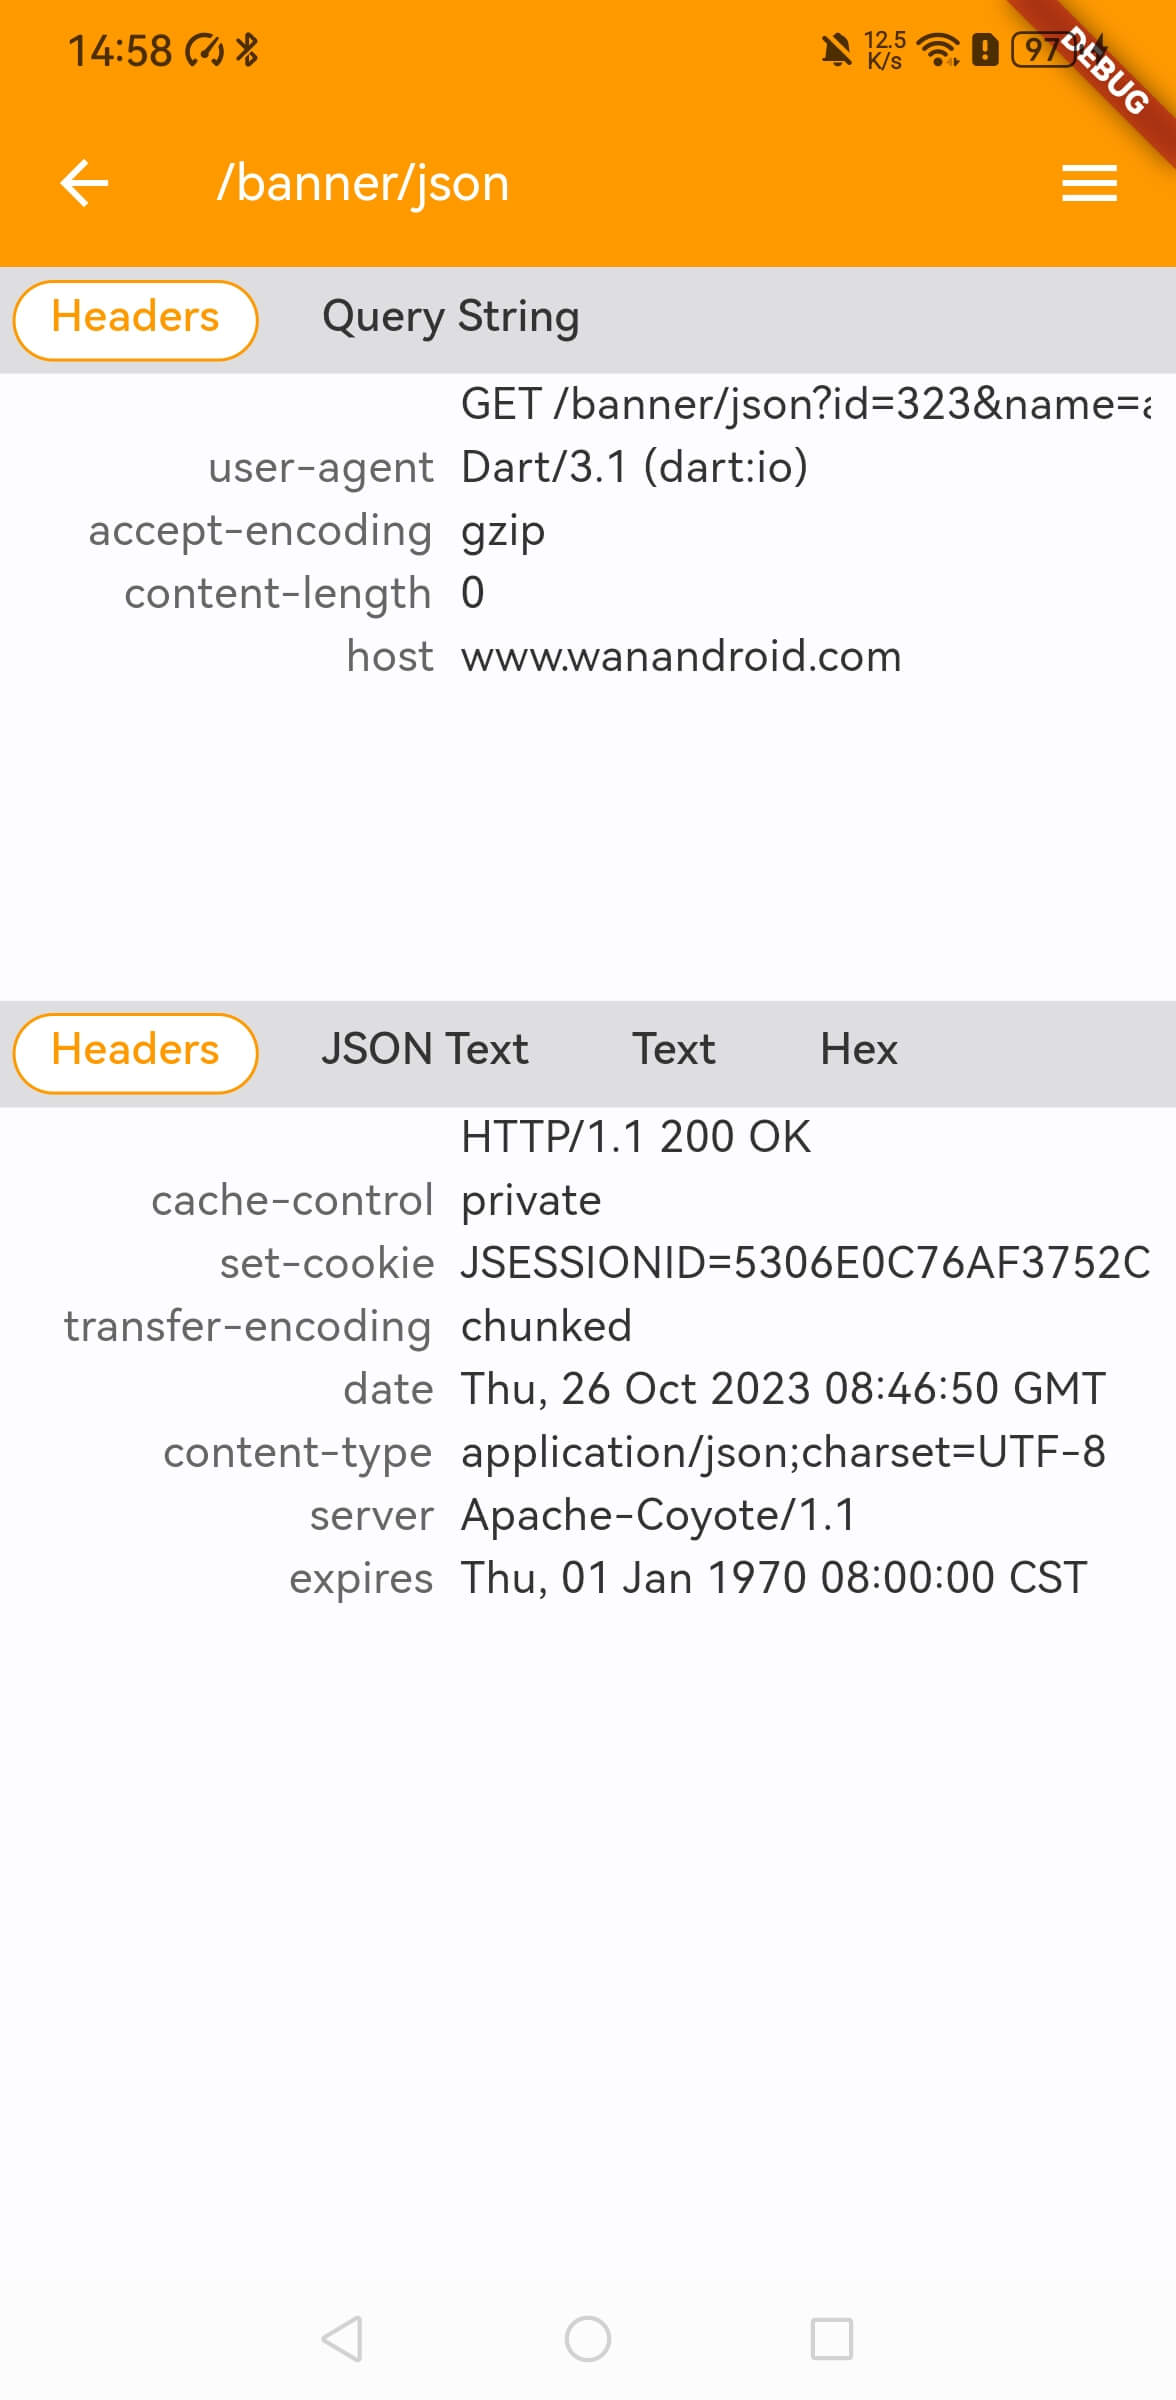
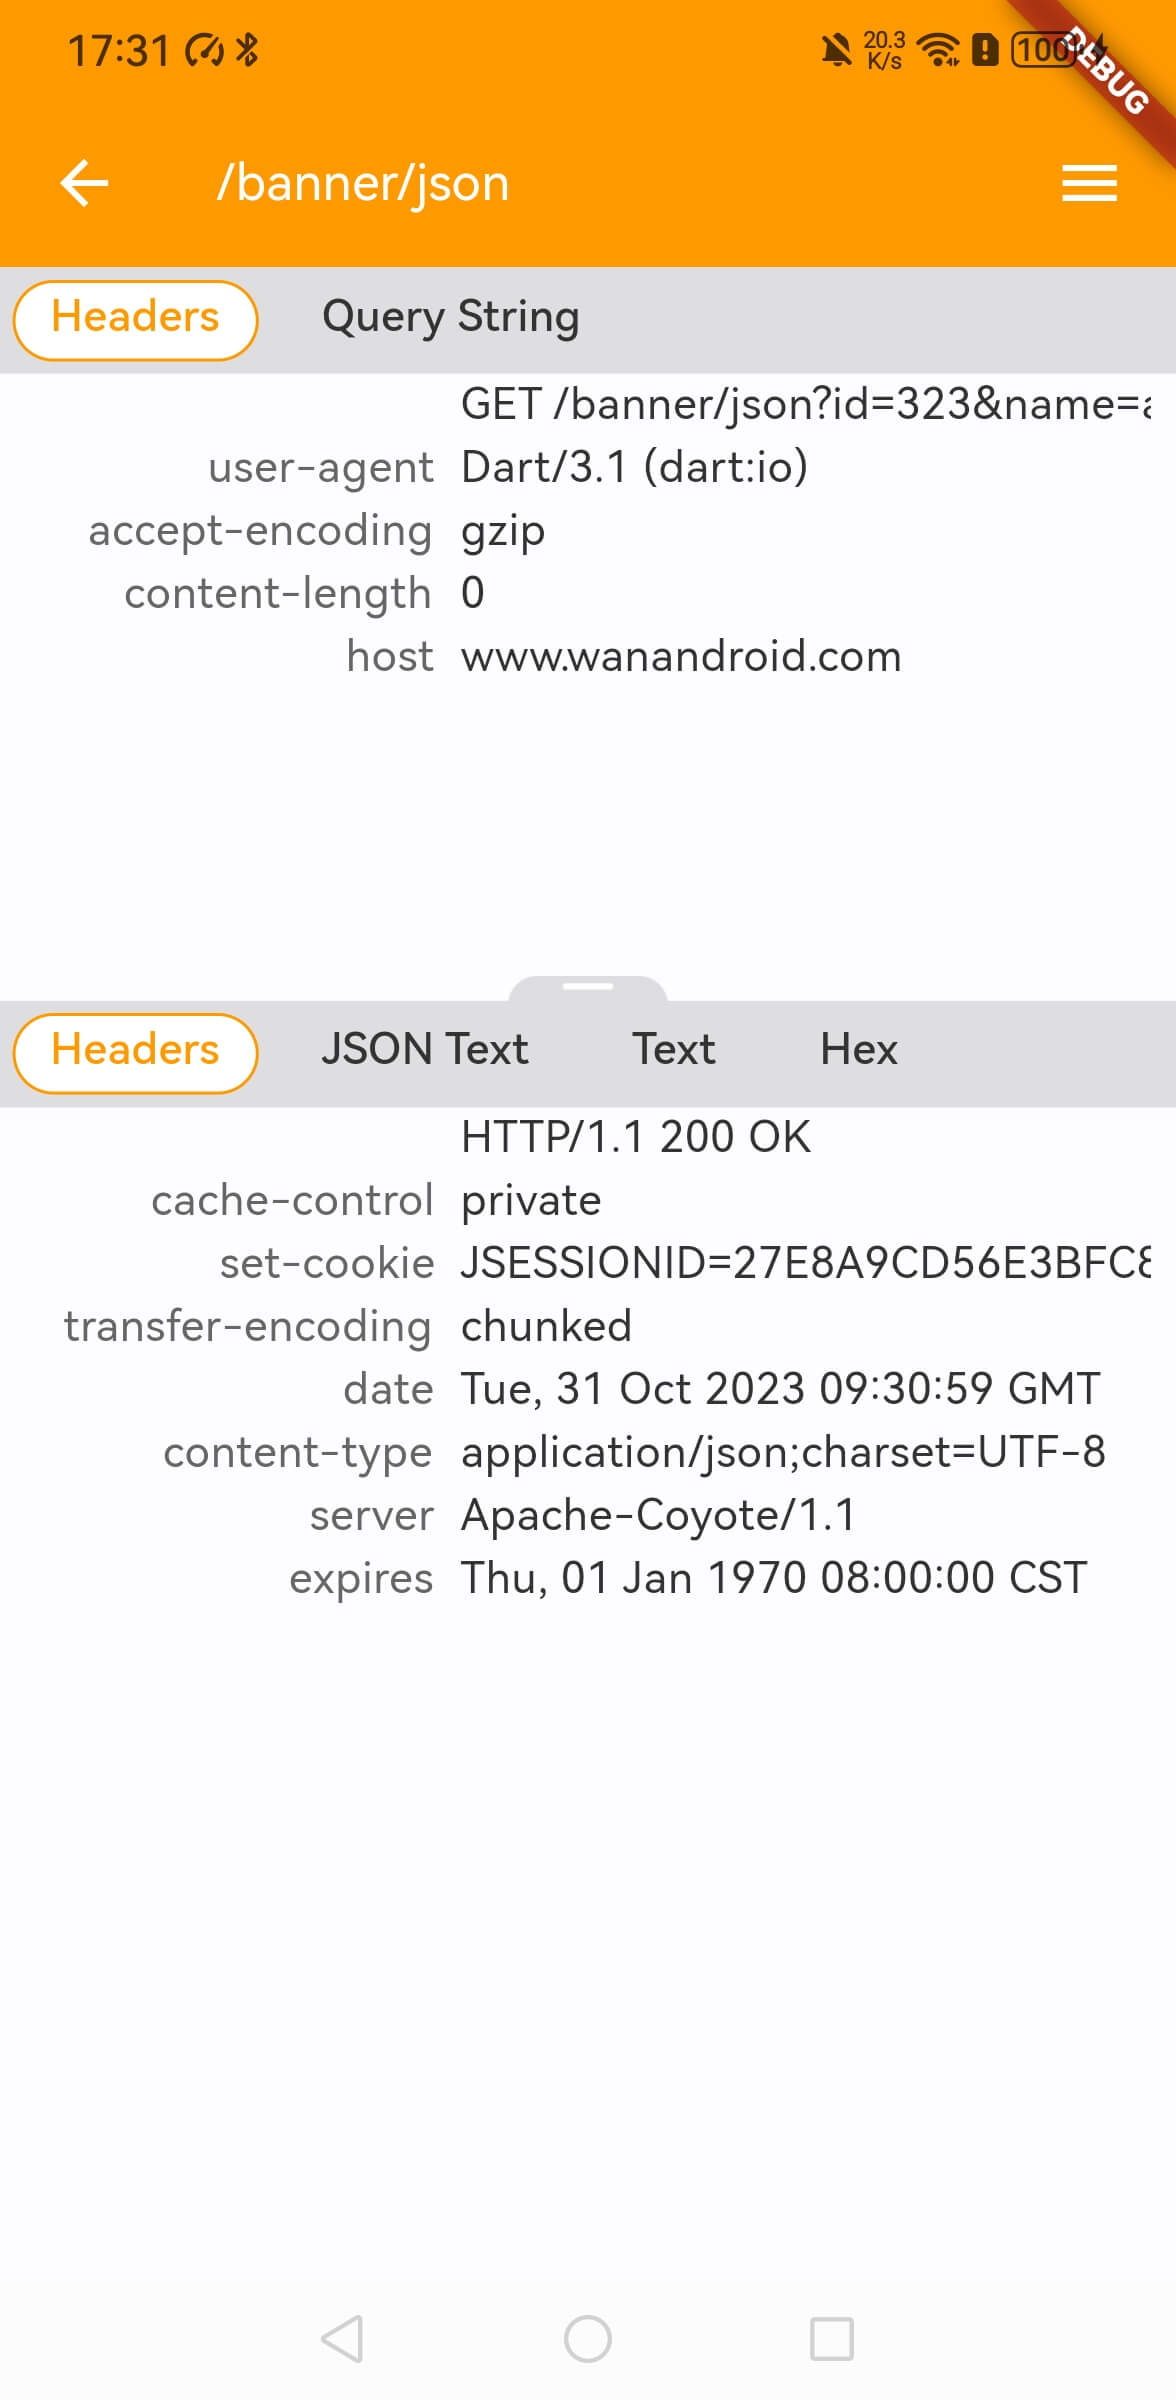
feat: version 1.0.2

diff --git a/CHANGELOG.md b/CHANGELOG.md
@@ -1,4 +1,9 @@
-## 1.0.0
-* view all requests
+## 1.0.2
+* network view can drag to resize windows
+* fix some bugs
+
 ## 1.0.1
 * fix readme img
+
+## 1.0.0
+* view all requests
